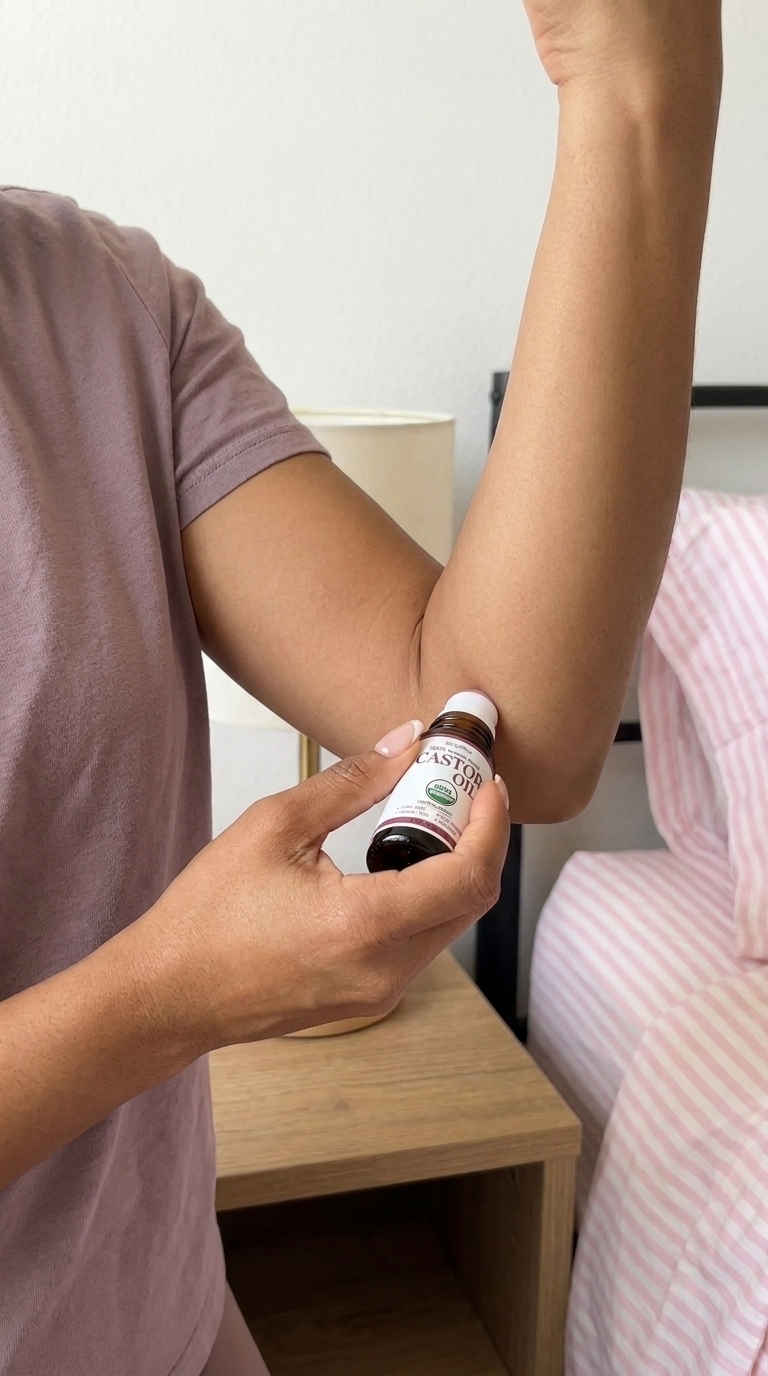
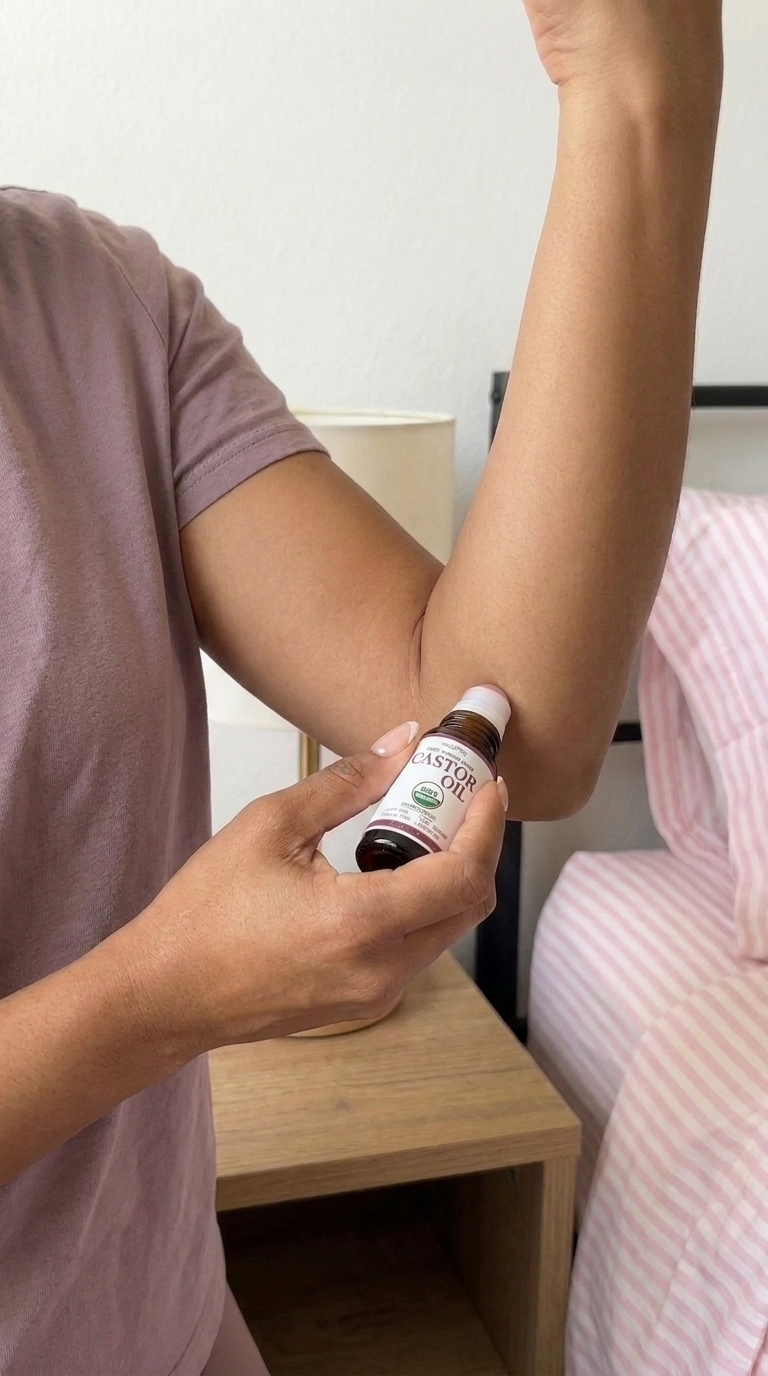
BodyJ: S6 edited (ball on elbow tip), storyboard r4
Claude-Session: https://claude.ai/code/session_01Gc6qJM4NhbYK4BeXrREXAo

diff --git a/ugc/bodyj-castor-rollon/edit_s6.py b/ugc/bodyj-castor-rollon/edit_s6.py
@@ -1,0 +1,10 @@
+"""Edit the approved cross-body S6 (stills_raw/S6_r3.png): move only the roller ball onto the elbow tip. $0.09."""
+import kie
+base = kie.upload("stills_raw/S6_r3.png"); ref = kie.upload("refs/bottle_front.png")
+prompt = ("Edit the FIRST image only. Keep everything exactly the same: the woman, her mauve tee, her pose with the right arm reaching across "
+          "her body, both hands, the nails, the bedroom, the lighting and framing. Change only this: her right hand moves the roll-on a little "
+          "so the pink rose quartz ball presses right on the bony tip of her left elbow (the point at the back of the bent elbow), not on the "
+          "side or the inner arm. The bottle and its label must look exactly like the bottle in the SECOND image. No face, no new objects, no text.")
+url = kie.run_task({"model": "nano-banana-pro", "input": {"prompt": prompt, "image_input": [base, ref], "aspect_ratio": "9:16", "resolution": "1K"}})
+if url: kie.fetch(url, "stills/S6.png"); print("S6 edit ok")
+else: print("S6 edit FAILED")
